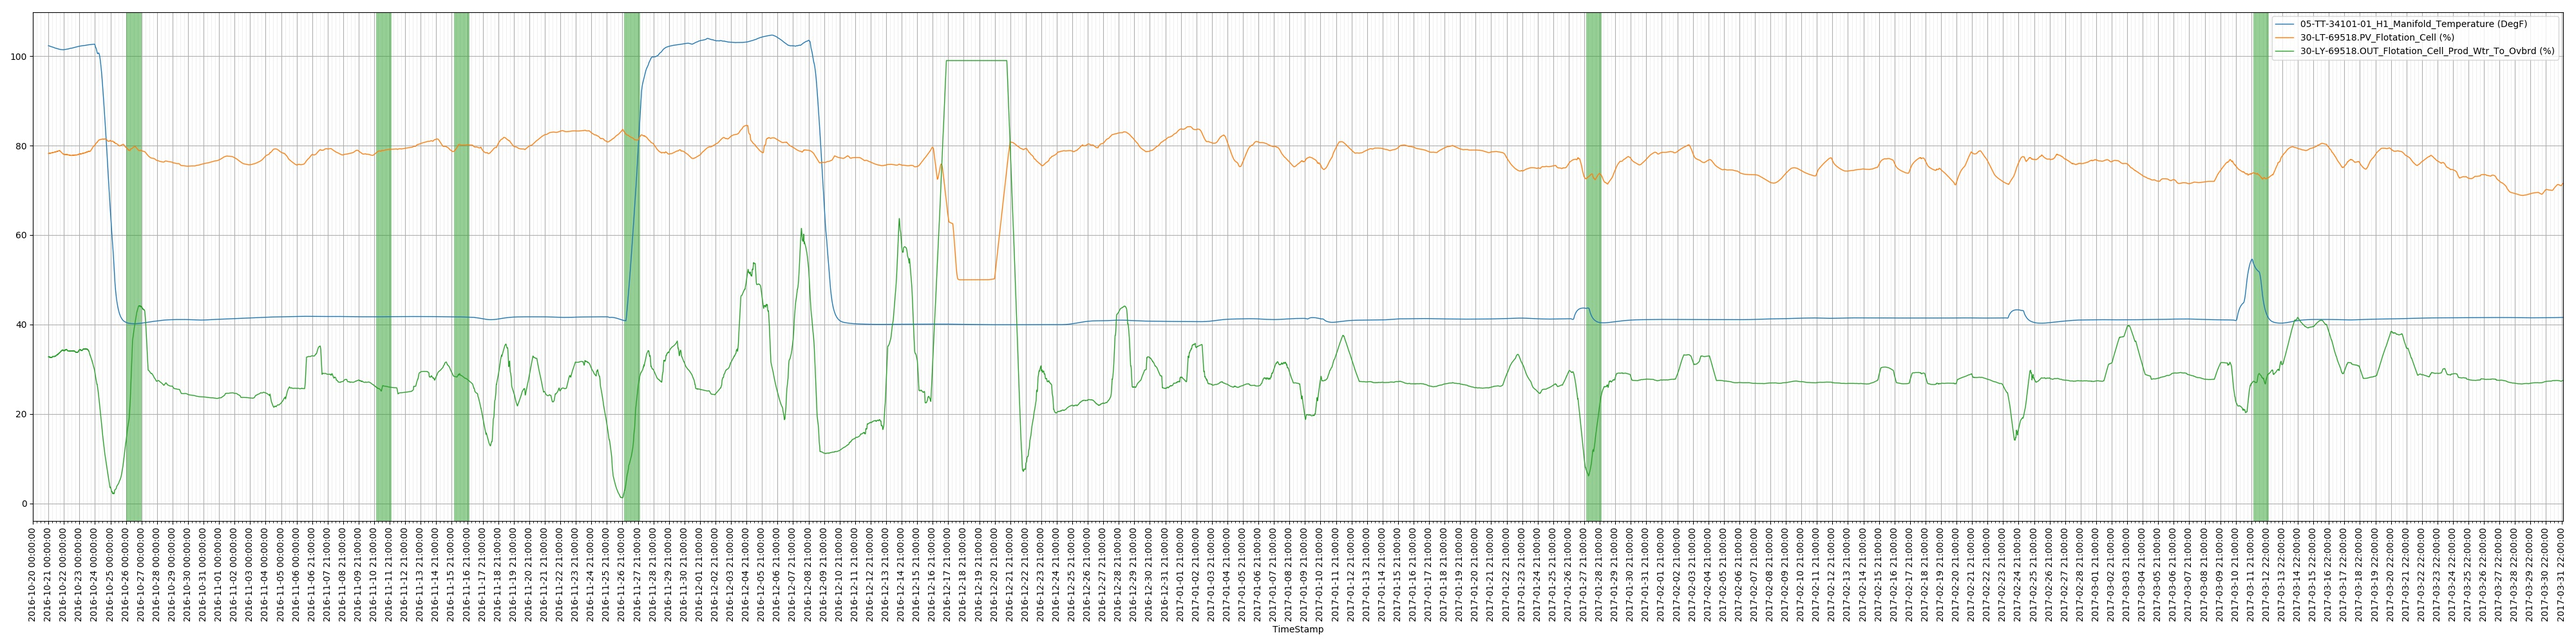
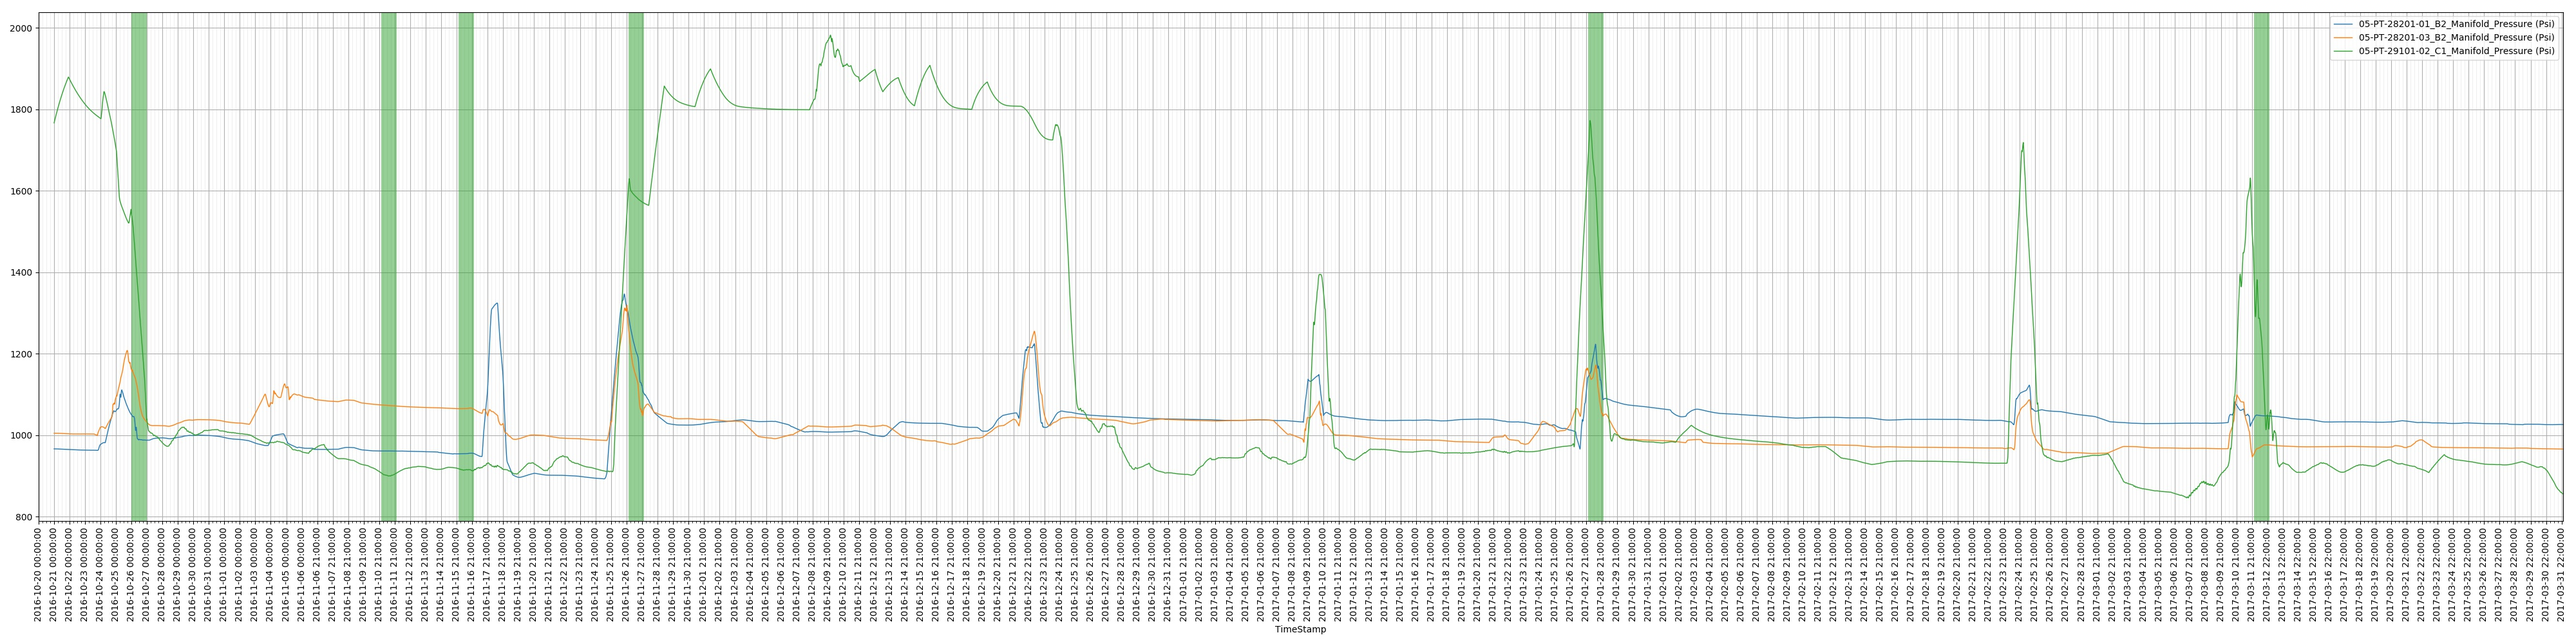
async html viz

Changed region(s): [[0.0, 0.031, 1.0, 0.992], [0.9688, 0.279, 1.0, 0.31], [0.4375, 0.713, 0.4688, 0.744]]

diff --git a/server/templates/index.html b/server/templates/index.html
@@ -1,17 +1,18 @@
 <!DOCTYPE html>
 <html lang="en">
 <head>
+    <script src="https://ajax.googleapis.com/ajax/libs/jquery/3.3.1/jquery.min.js"></script>
     <meta charset="UTF-8">
     <title>Title</title>
 </head>
 <body>
 
 
-<!--<img src="http://localhost:5000/viz">-->
+<img src="http://localhost:5000/viz" width="100%">
 
 
 
-<form id="inputform" action="http://localhost:5000/" method="get">
+<form id="inputform" action="http://localhost:5000/" method="post">
     <label><input type='checkbox' name='05-PT-28201-01_B2_Manifold_Pressure (Psi)'> 05-PT-28201-01_B2_Manifold_Pressure
         (Psi)</label><br>
     <label><input type='checkbox' name='05-PT-28201-03_B2_Manifold_Pressure (Psi)'> 05-PT-28201-03_B2_Manifold_Pressure
@@ -172,5 +173,22 @@
         37-PT-62301.PV_Closed_Smp_Tk_Pmp_Disch_To_Sep (PSIG</label><br>
     <input type="submit" value="submit">
 </form>
+
+<script type='text/javascript'>
+$("#inputform").submit(function(event){
+	event.preventDefault(); //prevent default action
+	var post_url = $(this).attr("action"); //get form action url
+	var request_method = $(this).attr("method"); //get form GET/POST method
+	var form_data = $(this).serialize(); //Encode form elements for submission
+
+	$.ajax({
+		url : post_url,
+		type: request_method,
+		data : form_data
+	}).done(function(response){
+		console.log(response);
+	});
+});
+</script>
 </body>
 </html>

diff --git a/bhp_sep/dataset_processor.py b/bhp_sep/dataset_processor.py
@@ -1,4 +1,5 @@
 from py_data.data import Data
+
 Data().create_dir('raw')
 
 import pandas as pd
@@ -218,13 +219,18 @@ class DataProcessor:
         cols = list(cols)
         df = self.df.copy()
         df = df[['TimeStamp'] + list(cols)]
-
+        replacement = {'Closed': 0, 'Open': 1, 'FAIL': 2}
         window = 24 * 120 + 1
         for col in list(cols):
             try:
                 df[col] = df[col].rolling(window).mean()
             except:
-                pass
+                try:
+                    df[col] = [replacement[item] for item in df[col]]
+                except:
+                    pass
+
+
 
         # df = df.dropna()
 

diff --git a/server/viz_server.py b/server/viz_server.py
@@ -13,9 +13,9 @@ fm = FlaskMovie(app=app)
 pipe = Pipe(limit=None)
 fm.create('viz',pipe)
 
-@app.route('/', methods=['GET'])
+@app.route('/', methods=['GET', 'POST'])
 def main():
-    args = request.args
+    args = request.form
     data_columns = []
     for _ in args:
         data_columns.append(_)
@@ -27,7 +27,7 @@ def main():
     return render_template('index.html')
 
 def start():
-    fm.start('localhost', 5000)
+    fm.start("0.0.0.0", 5000)
     while True:
         pipe.push_wait()
         pipe.push(cv2.imread('/home/developer/PycharmProjects/bhp-sep/server/temp.jpg'))

diff --git a/server_viz.py b/server_viz.py
@@ -1,4 +1,7 @@
 from threading import Thread
-from server.viz_server import start
+from server.viz_server import app, start
 
+# def run():
+#     app.run("0.0.0.0", 5000,threaded=True)
+# Thread(target=run).start()
 Thread(target=start).start()
